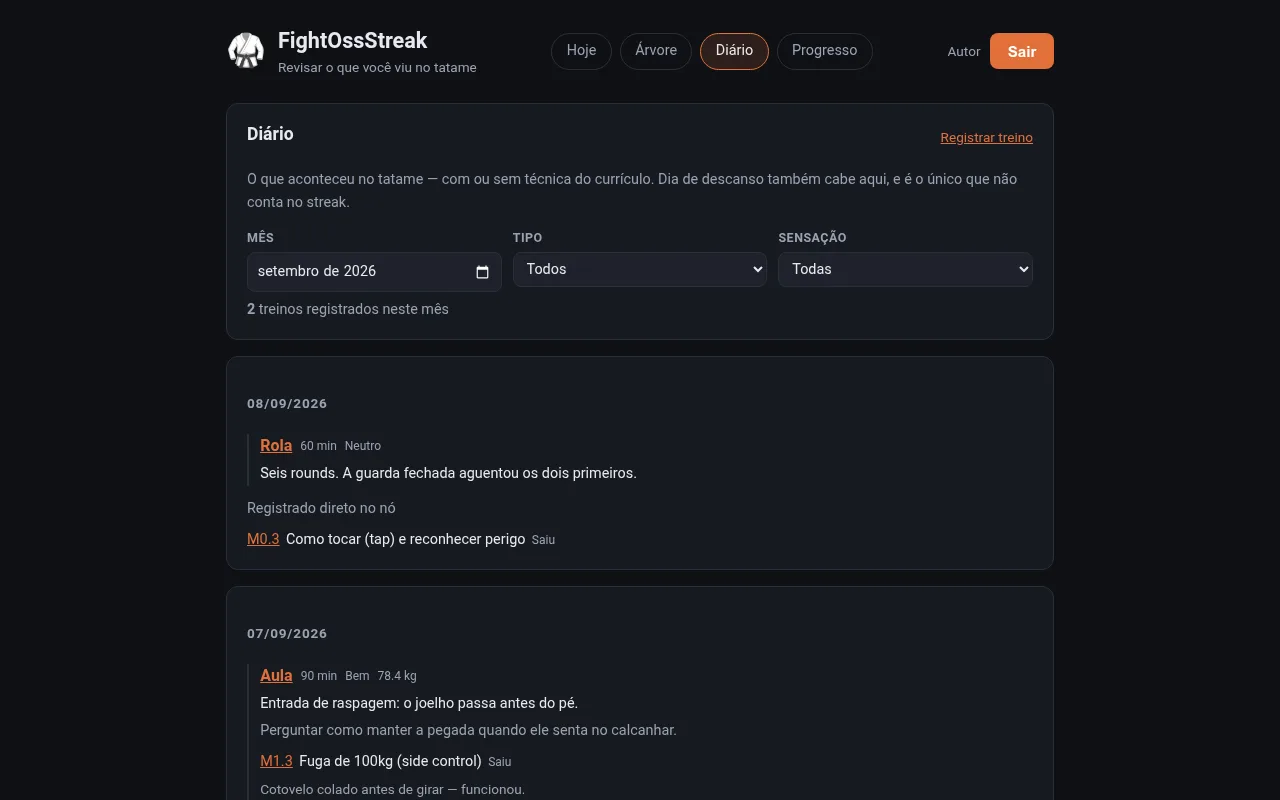
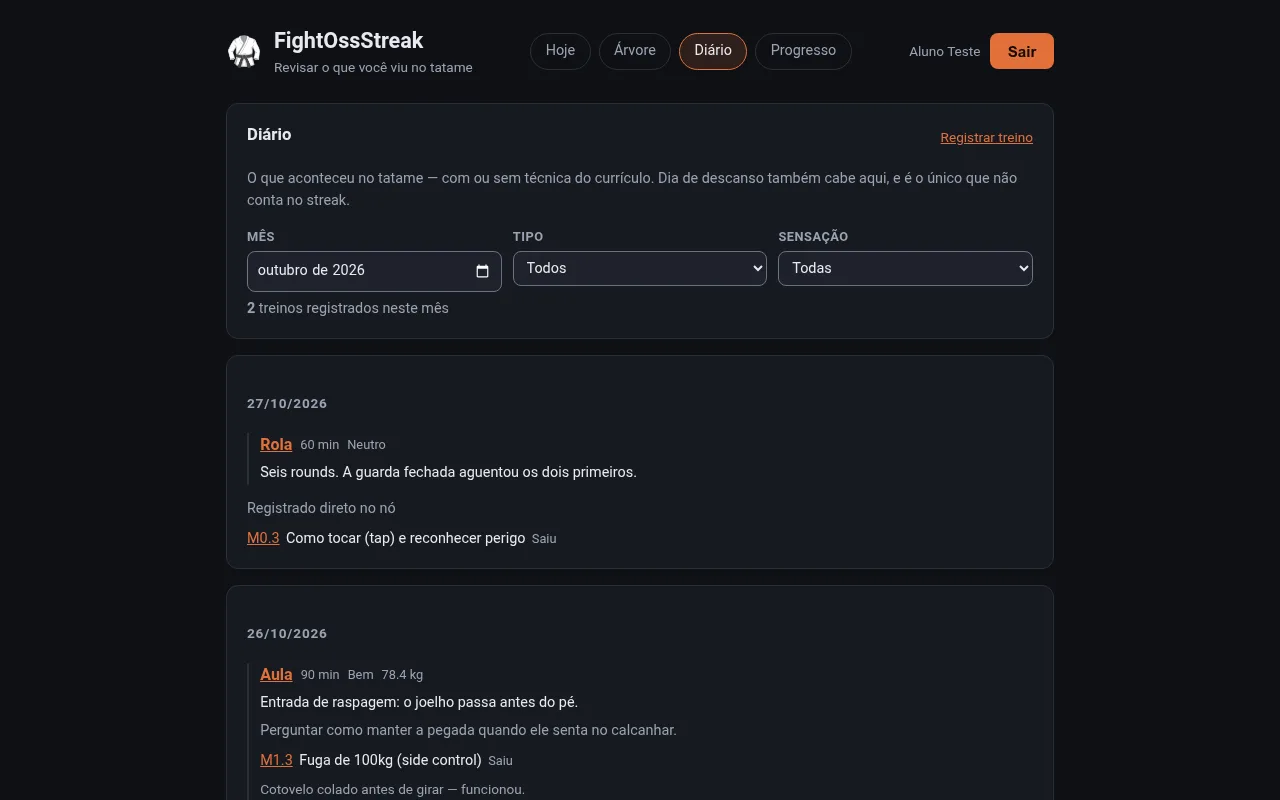
docs(prints): recaptura os prints da landing com o design system
Refs #181

diff --git a/docs/desenvolvimento/prints-historico.md b/docs/desenvolvimento/prints-historico.md
@@ -105,3 +105,12 @@ Registro do que cada recaptura mudou e por quê. O procedimento está em
 > saíram com bytes diferentes e foram **restaurados**, pela régua da #99. O `og.jpg` saiu idêntico.
 > A captura repetiu o caminho da onda 2: stack em projeto separado (`docker compose -p fosprints`),
 > com volume descartado depois, e sessão por `seed-dev-users.mjs` + `mint-dev-login.mjs`.
+
+> **O design system (#181–#184) mexeu na aparência de todas as telas, e por isso recapturou os onze
+> arquivos.** O que mudou nos prints: a borda dos controles ficou mais clara (`--border-control`), o
+> texto dos botões de destaque ficou escuro (`--on-accent`), e alguns tamanhos de fonte foram
+> arredondados para a escala de tokens. O layout não mudou. A captura usou o mesmo caminho da onda 3:
+> o banco subiu num projeto separado (`docker compose -p fosprints`) com volume próprio, descartado
+> depois, e a sessão foi aberta pelo `seed-dev-users.mjs` mais o login com senha. Uma primeira
+> tentativa com a conta do banco local saiu com o heatmap inflado por semeaduras anteriores e foi
+> descartada: semeie sempre numa conta nova.
